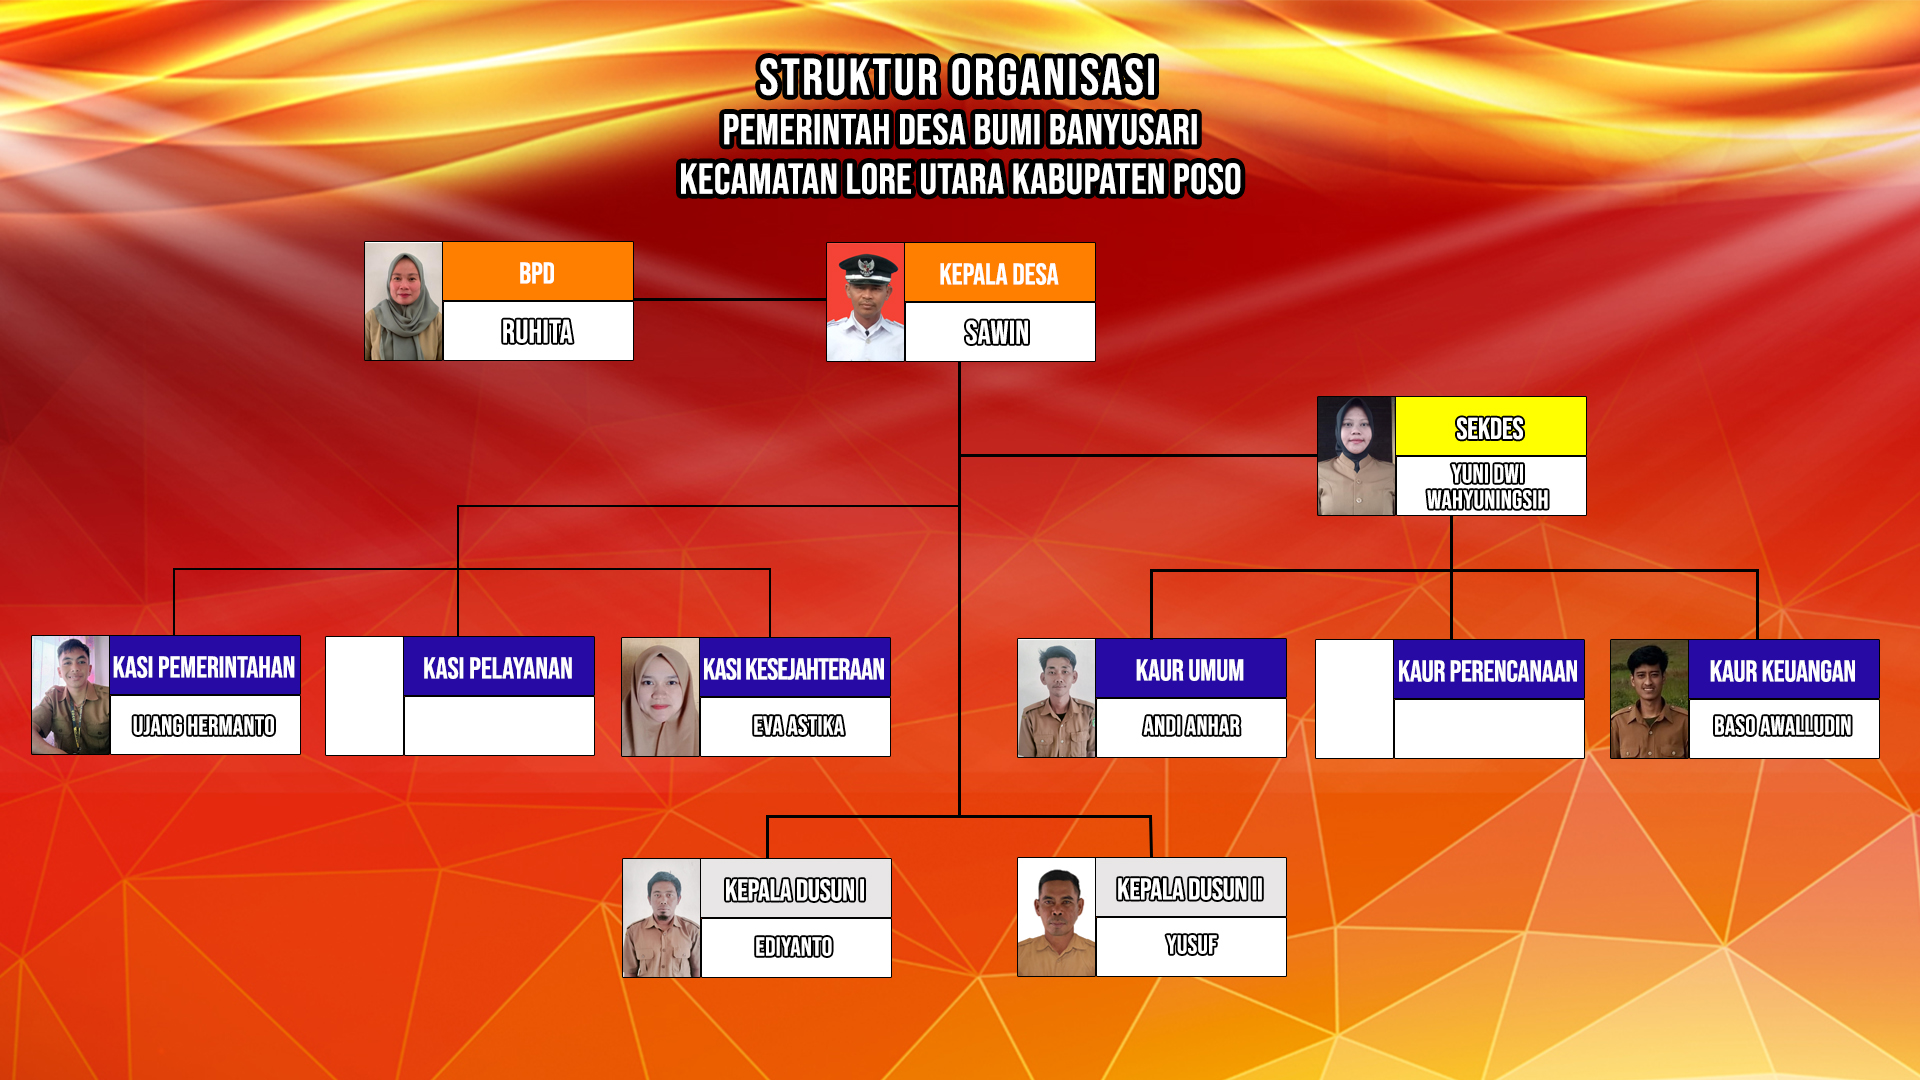
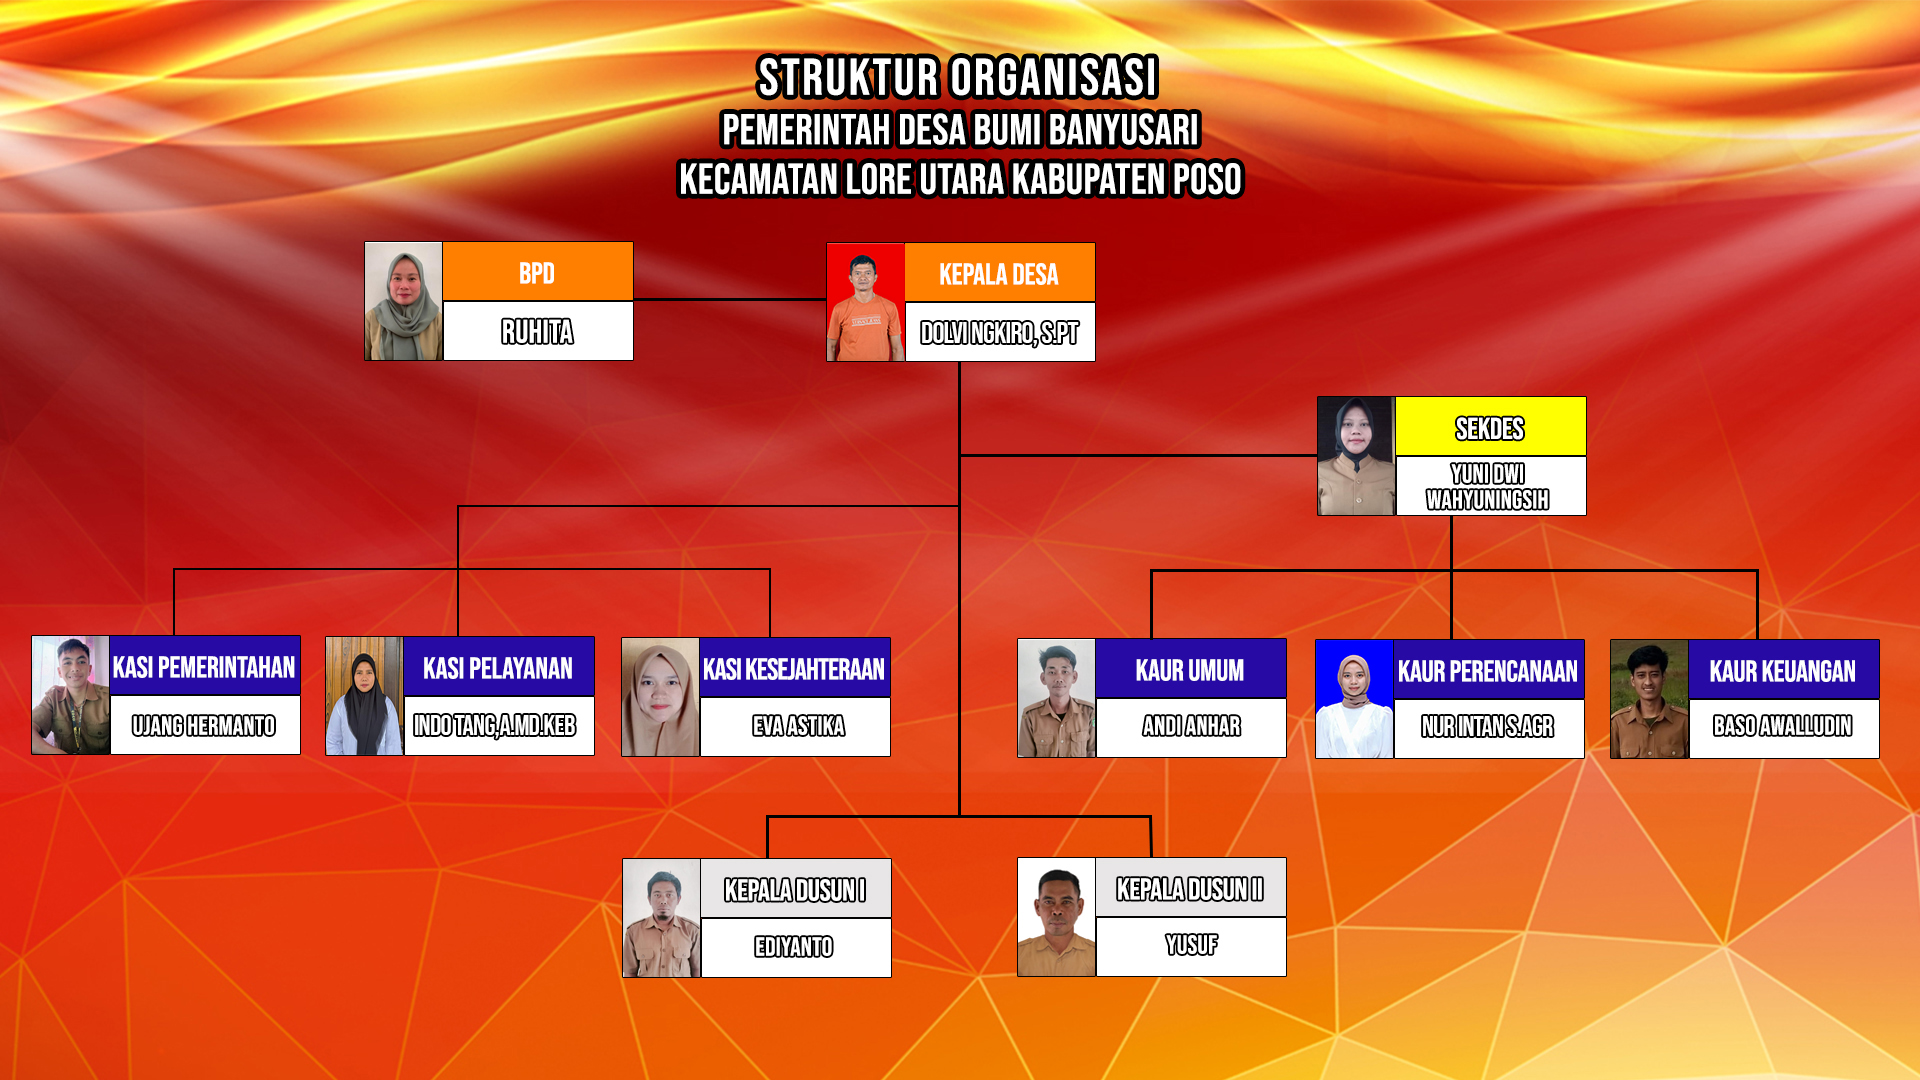
version-2

Changed region(s): [[0.4062, 0.2139, 0.5625, 0.3361], [0.1562, 0.5806, 0.3125, 0.7028], [0.6875, 0.5806, 0.8125, 0.7028]]

diff --git a/index.html b/index.html
@@ -68,6 +68,7 @@
                         <span data-text-preloader="i" class="letters-loading">
                             i
                         </span>
+                        <br>
                         <span data-text-preloader="b" class="letters-loading">
                             b
                         </span>
@@ -297,7 +298,7 @@
                             <div class="inner">
                                 <div class="shape2"></div>
                                 <div class="shape3"><img src="assets/images/shapes/about-v1-shape3.png" alt="#"></div>
-                                <img src="assets/images/project/kades.jpg" alt="#">
+                                <img src="assets/images/project/kades.png" alt="#">
                             </div>
                         </div>
                     </div>
@@ -454,7 +455,7 @@
                                             <li><a href="#"><span class="fab fa-instagram"></span></a></li>
                                         </ul>
                                         <div class="text-box">
-                                            <h2><a href="team-details.html">Sawin</a></h2>
+                                            <h2><a href="team-details.html">DOLVI NGKIRO,S.Pt</a></h2>
                                             <p>Kepala Desa</p>
                                         </div>
                                     </div>
@@ -592,6 +593,50 @@
                                         <div class="text-box">
                                             <h2><a href="team-details.html">Andi Anhar</a></h2>
                                             <p>Kaur Umum</p>
+                                        </div>
+                                    </div>
+                                </div>
+                            </div>
+                        </div>
+                    </div>
+                    <!--End Team One Single-->
+                    <!--Start Team One Single-->
+                    <div class="col-xl-3 col-lg-6 col-md-6 wow animated fadeInUp" data-wow-delay="0.7s">
+                        <div class="team-one__single">
+                            <div class="team-one__single-img">
+                                <div class="inner">
+                                    <img src="assets/images/project/kaur-perencanaan.jpg" alt="#">
+                                    <div class="content-box text-center">
+                                        <ul>
+                                            <li><a href="#"><span class="icon-twitter"></span></a></li>
+                                            <li><a href="#"><span class="icon-facebook"></span></a></li>
+                                            <li><a href="#"><span class="fab fa-instagram"></span></a></li>
+                                        </ul>
+                                        <div class="text-box">
+                                            <h2><a href="team-details.html">Nur intan S.Agr</a></h2>
+                                            <p>Kaur Perencanaan</p>
+                                        </div>
+                                    </div>
+                                </div>
+                            </div>
+                        </div>
+                    </div>
+                    <!--End Team One Single-->
+                    <!--Start Team One Single-->
+                    <div class="col-xl-3 col-lg-6 col-md-6 wow animated fadeInUp" data-wow-delay="0.7s">
+                        <div class="team-one__single">
+                            <div class="team-one__single-img">
+                                <div class="inner">
+                                    <img src="assets/images/project/kasi-pelayanan.jpg" alt="#">
+                                    <div class="content-box text-center">
+                                        <ul>
+                                            <li><a href="#"><span class="icon-twitter"></span></a></li>
+                                            <li><a href="#"><span class="icon-facebook"></span></a></li>
+                                            <li><a href="#"><span class="fab fa-instagram"></span></a></li>
+                                        </ul>
+                                        <div class="text-box">
+                                            <h2><a href="team-details.html">Indo tang,A.Md.Keb</a></h2>
+                                            <p>Kasi Pelayanan</p>
                                         </div>
                                     </div>
                                 </div>
@@ -1062,7 +1107,7 @@
                                 <div class="footer-widget__single-contact">
                                     <p class="text">Desa Bumi Banyusari</p>
                                     <p class="number"><a href="tel:123456789">085242318877</a></p>
-                                    <p class="email"><a href="mailto:yourmail@email.com">Bumibanyusari01@gmail.com</a></p>
+                                    <p class="email"><a href="mailto:yourmail@email.com">bumibanyusari1@gmail,com</a></p>
                                 </div>
                             </div>
                         </div>
@@ -1108,7 +1153,7 @@
             <ul class="mobile-nav__contact list-unstyled">
                 <li>
                     <i class="fa fa-envelope"></i>
-                    <a href="mailto:Bumibanyusari01@gmail.com">Bumibanyusari01@gmail.com</a>
+                    <a href="mailto:bumibanyusari1@gmail,com">bumibanyusari1@gmail,com</a>
                 </li>
                 <li>
                     <i class="fa fa-phone-alt"></i>

diff --git a/kontak.html b/kontak.html
@@ -237,7 +237,7 @@
 
                                 <div class="content-box">
                                     <h2>E-mail</h2>
-                                    <p><a href="mailto:yourmail@email.com">Bumibanyusari01@gmail.com</a></p>
+                                    <p><a href="mailto:yourmail@email.com">bumibanyusari1@gmail,com</a></p>
                                 </div>
                             </div>
                         </div>
@@ -449,7 +449,7 @@
                                 <div class="footer-widget__single-contact">
                                     <p class="text">Desa Bumi Banyusari</p>
                                     <p class="number"><a href="tel:123456789">085242318877</a></p>
-                                    <p class="email"><a href="mailto:yourmail@email.com">Bumibanyusari01@gmail.com</a></p>
+                                    <p class="email"><a href="mailto:yourmail@email.com">bumibanyusari1@gmail,com</a></p>
                                 </div>
                             </div>
                         </div>
@@ -495,7 +495,7 @@
             <ul class="mobile-nav__contact list-unstyled">
                 <li>
                     <i class="fa fa-envelope"></i>
-                    <a href="mailto:Bumibanyusari01@gmail.com">Bumibanyusari01@gmail.com</a>
+                    <a href="mailto:bumibanyusari1@gmail,com">bumibanyusari1@gmail,com</a>
                 </li>
                 <li>
                     <i class="fa fa-phone-alt"></i>

diff --git a/berita.html b/berita.html
@@ -323,7 +323,7 @@
                                 <div class="footer-widget__single-contact">
                                     <p class="text">Desa Bumi Banyusari</p>
                                     <p class="number"><a href="tel:123456789">085242318877</a></p>
-                                    <p class="email"><a href="mailto:yourmail@email.com">Bumibanyusari01@gmail.com</a></p>
+                                    <p class="email"><a href="mailto:yourmail@email.com">bumibanyusari1@gmail,com</a></p>
                                 </div>
                             </div>
                         </div>
@@ -369,7 +369,7 @@
             <ul class="mobile-nav__contact list-unstyled">
                 <li>
                     <i class="fa fa-envelope"></i>
-                    <a href="mailto:Bumibanyusari01@gmail.com">Bumibanyusari01@gmail.com</a>
+                    <a href="mailto:bumibanyusari1@gmail,com">bumibanyusari1@gmail,com</a>
                 </li>
                 <li>
                     <i class="fa fa-phone-alt"></i>

diff --git a/berita2.html b/berita2.html
@@ -338,7 +338,7 @@
                                 <div class="footer-widget__single-contact">
                                     <p class="text">Desa Bumi Banyusari</p>
                                     <p class="number"><a href="tel:123456789">085242318877</a></p>
-                                    <p class="email"><a href="mailto:yourmail@email.com">Bumibanyusari01@gmail.com</a></p>
+                                    <p class="email"><a href="mailto:yourmail@email.com">bumibanyusari1@gmail,com</a></p>
                                 </div>
                             </div>
                         </div>
@@ -384,7 +384,7 @@
             <ul class="mobile-nav__contact list-unstyled">
                 <li>
                     <i class="fa fa-envelope"></i>
-                    <a href="mailto:Bumibanyusari01@gmail.com">Bumibanyusari01@gmail.com</a>
+                    <a href="mailto:bumibanyusari1@gmail,com">bumibanyusari1@gmail,com</a>
                 </li>
                 <li>
                     <i class="fa fa-phone-alt"></i>

diff --git a/berita3.html b/berita3.html
@@ -341,7 +341,7 @@
                                 <div class="footer-widget__single-contact">
                                     <p class="text">Desa Bumi Banyusari</p>
                                     <p class="number"><a href="tel:123456789">085242318877</a></p>
-                                    <p class="email"><a href="mailto:yourmail@email.com">Bumibanyusari01@gmail.com</a></p>
+                                    <p class="email"><a href="mailto:yourmail@email.com">bumibanyusari1@gmail,com</a></p>
                                 </div>
                             </div>
                         </div>
@@ -387,7 +387,7 @@
             <ul class="mobile-nav__contact list-unstyled">
                 <li>
                     <i class="fa fa-envelope"></i>
-                    <a href="mailto:Bumibanyusari01@gmail.com">Bumibanyusari01@gmail.com</a>
+                    <a href="mailto:bumibanyusari1@gmail,com">bumibanyusari1@gmail,com</a>
                 </li>
                 <li>
                     <i class="fa fa-phone-alt"></i>

diff --git a/berita4.html b/berita4.html
@@ -305,7 +305,7 @@
                                 <div class="footer-widget__single-contact">
                                     <p class="text">Desa Bumi Banyusari</p>
                                     <p class="number"><a href="tel:123456789">085242318877</a></p>
-                                    <p class="email"><a href="mailto:yourmail@email.com">Bumibanyusari01@gmail.com</a></p>
+                                    <p class="email"><a href="mailto:yourmail@email.com">bumibanyusari1@gmail,com</a></p>
                                 </div>
                             </div>
                         </div>
@@ -351,7 +351,7 @@
             <ul class="mobile-nav__contact list-unstyled">
                 <li>
                     <i class="fa fa-envelope"></i>
-                    <a href="mailto:Bumibanyusari01@gmail.com">Bumibanyusari01@gmail.com</a>
+                    <a href="mailto:bumibanyusari1@gmail,com">bumibanyusari1@gmail,com</a>
                 </li>
                 <li>
                     <i class="fa fa-phone-alt"></i>

diff --git a/detail-berita1.html b/detail-berita1.html
@@ -295,7 +295,7 @@
                                 <div class="footer-widget__single-contact">
                                     <p class="text">Desa Bumi Banyusari</p>
                                     <p class="number"><a href="tel:123456789">085242318877</a></p>
-                                    <p class="email"><a href="mailto:yourmail@email.com">Bumibanyusari01@gmail.com</a></p>
+                                    <p class="email"><a href="mailto:yourmail@email.com">bumibanyusari1@gmail,com</a></p>
                                 </div>
                             </div>
                         </div>
@@ -341,7 +341,7 @@
             <ul class="mobile-nav__contact list-unstyled">
                 <li>
                     <i class="fa fa-envelope"></i>
-                    <a href="mailto:Bumibanyusari01@gmail.com">Bumibanyusari01@gmail.com</a>
+                    <a href="mailto:bumibanyusari1@gmail,com">bumibanyusari1@gmail,com</a>
                 </li>
                 <li>
                     <i class="fa fa-phone-alt"></i>

diff --git a/detail-berita11.html b/detail-berita11.html
@@ -294,7 +294,7 @@
                                 <div class="footer-widget__single-contact">
                                     <p class="text">Desa Bumi Banyusari</p>
                                     <p class="number"><a href="tel:123456789">085242318877</a></p>
-                                    <p class="email"><a href="mailto:yourmail@email.com">Bumibanyusari01@gmail.com</a></p>
+                                    <p class="email"><a href="mailto:yourmail@email.com">bumibanyusari1@gmail,com</a></p>
                                 </div>
                             </div>
                         </div>
@@ -340,7 +340,7 @@
             <ul class="mobile-nav__contact list-unstyled">
                 <li>
                     <i class="fa fa-envelope"></i>
-                    <a href="mailto:Bumibanyusari01@gmail.com">Bumibanyusari01@gmail.com</a>
+                    <a href="mailto:bumibanyusari1@gmail,com">bumibanyusari1@gmail,com</a>
                 </li>
                 <li>
                     <i class="fa fa-phone-alt"></i>

diff --git a/detail-berita2.html b/detail-berita2.html
@@ -299,7 +299,7 @@
                                 <div class="footer-widget__single-contact">
                                     <p class="text">Desa Bumi Banyusari</p>
                                     <p class="number"><a href="tel:123456789">085242318877</a></p>
-                                    <p class="email"><a href="mailto:yourmail@email.com">Bumibanyusari01@gmail.com</a></p>
+                                    <p class="email"><a href="mailto:yourmail@email.com">bumibanyusari1@gmail,com</a></p>
                                 </div>
                             </div>
                         </div>
@@ -345,7 +345,7 @@
             <ul class="mobile-nav__contact list-unstyled">
                 <li>
                     <i class="fa fa-envelope"></i>
-                    <a href="mailto:Bumibanyusari01@gmail.com">Bumibanyusari01@gmail.com</a>
+                    <a href="mailto:bumibanyusari1@gmail,com">bumibanyusari1@gmail,com</a>
                 </li>
                 <li>
                     <i class="fa fa-phone-alt"></i>

diff --git a/detail-berita22.html b/detail-berita22.html
@@ -292,7 +292,7 @@
                                 <div class="footer-widget__single-contact">
                                     <p class="text">Desa Bumi Banyusari</p>
                                     <p class="number"><a href="tel:123456789">085242318877</a></p>
-                                    <p class="email"><a href="mailto:yourmail@email.com">Bumibanyusari01@gmail.com</a></p>
+                                    <p class="email"><a href="mailto:yourmail@email.com">bumibanyusari1@gmail,com</a></p>
                                 </div>
                             </div>
                         </div>
@@ -338,7 +338,7 @@
             <ul class="mobile-nav__contact list-unstyled">
                 <li>
                     <i class="fa fa-envelope"></i>
-                    <a href="mailto:Bumibanyusari01@gmail.com">Bumibanyusari01@gmail.com</a>
+                    <a href="mailto:bumibanyusari1@gmail,com">bumibanyusari1@gmail,com</a>
                 </li>
                 <li>
                     <i class="fa fa-phone-alt"></i>

diff --git a/detail-berita222.html b/detail-berita222.html
@@ -301,7 +301,7 @@
                                 <div class="footer-widget__single-contact">
                                     <p class="text">Desa Bumi Banyusari</p>
                                     <p class="number"><a href="tel:123456789">085242318877</a></p>
-                                    <p class="email"><a href="mailto:yourmail@email.com">Bumibanyusari01@gmail.com</a></p>
+                                    <p class="email"><a href="mailto:yourmail@email.com">bumibanyusari1@gmail,com</a></p>
                                 </div>
                             </div>
                         </div>
@@ -347,7 +347,7 @@
             <ul class="mobile-nav__contact list-unstyled">
                 <li>
                     <i class="fa fa-envelope"></i>
-                    <a href="mailto:Bumibanyusari01@gmail.com">Bumibanyusari01@gmail.com</a>
+                    <a href="mailto:bumibanyusari1@gmail,com">bumibanyusari1@gmail,com</a>
                 </li>
                 <li>
                     <i class="fa fa-phone-alt"></i>

diff --git a/detail-berita3.html b/detail-berita3.html
@@ -299,7 +299,7 @@
                                 <div class="footer-widget__single-contact">
                                     <p class="text">Desa Bumi Banyusari</p>
                                     <p class="number"><a href="tel:123456789">085242318877</a></p>
-                                    <p class="email"><a href="mailto:yourmail@email.com">Bumibanyusari01@gmail.com</a></p>
+                                    <p class="email"><a href="mailto:yourmail@email.com">bumibanyusari1@gmail,com</a></p>
                                 </div>
                             </div>
                         </div>
@@ -345,7 +345,7 @@
             <ul class="mobile-nav__contact list-unstyled">
                 <li>
                     <i class="fa fa-envelope"></i>
-                    <a href="mailto:Bumibanyusari01@gmail.com">Bumibanyusari01@gmail.com</a>
+                    <a href="mailto:bumibanyusari1@gmail,com">bumibanyusari1@gmail,com</a>
                 </li>
                 <li>
                     <i class="fa fa-phone-alt"></i>
